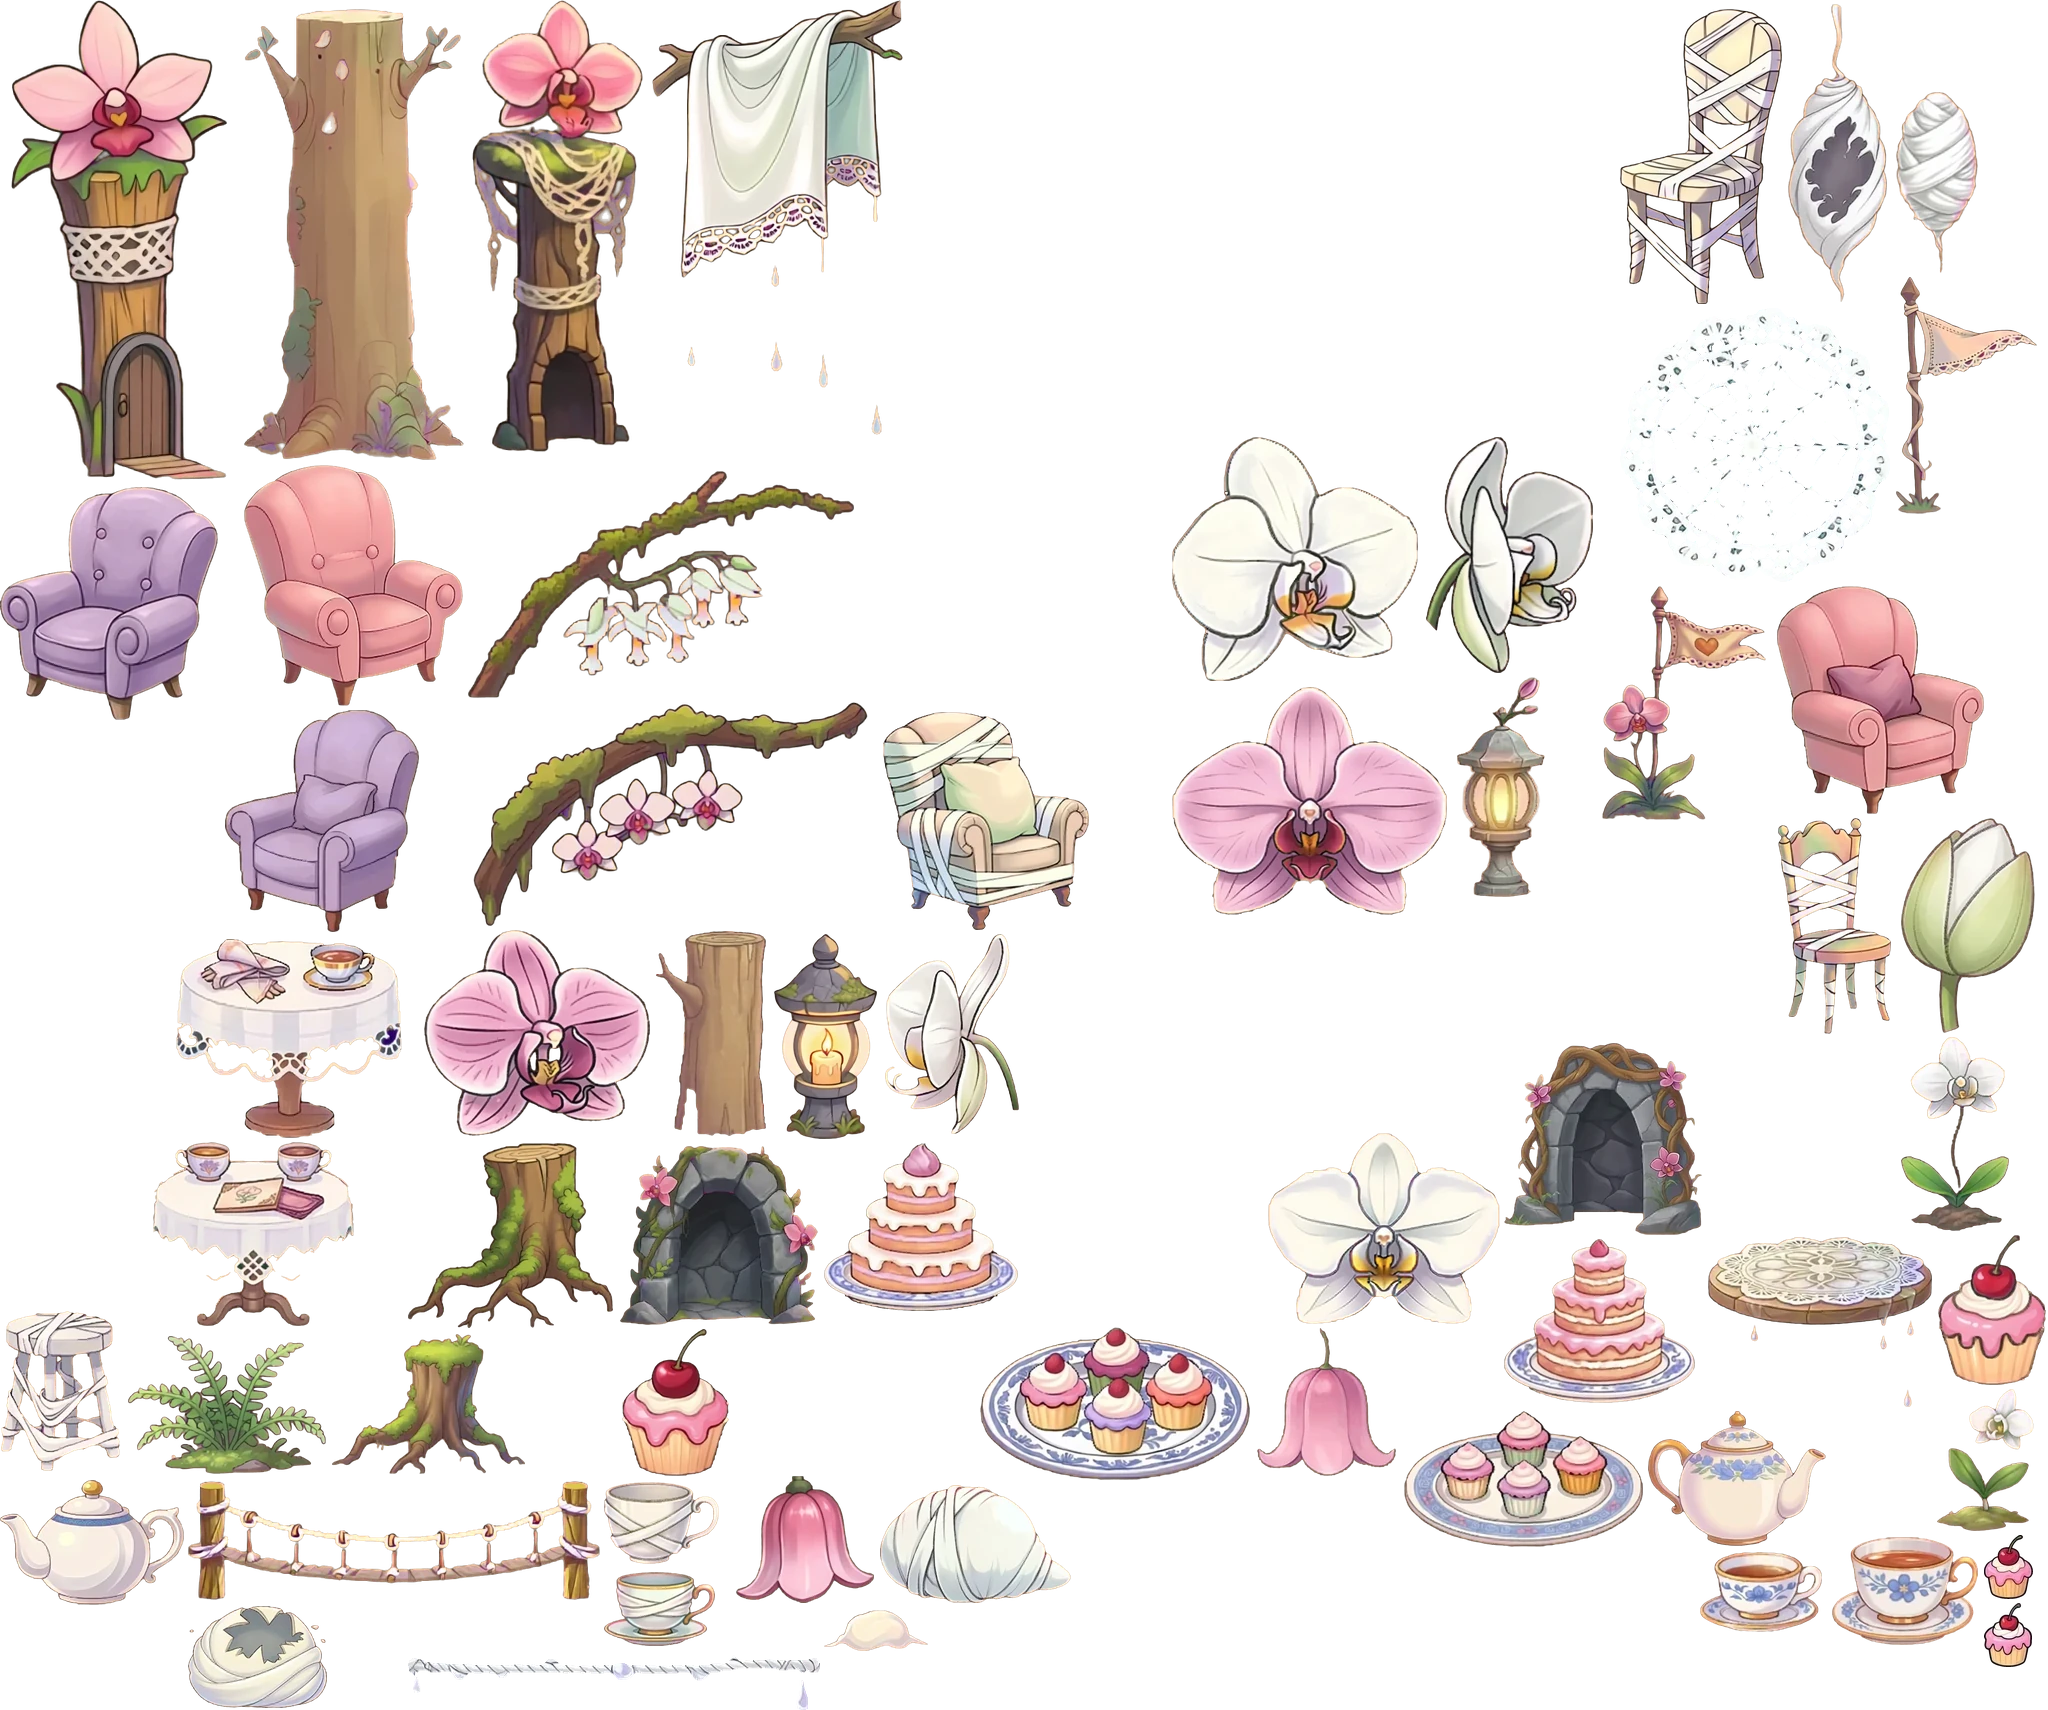
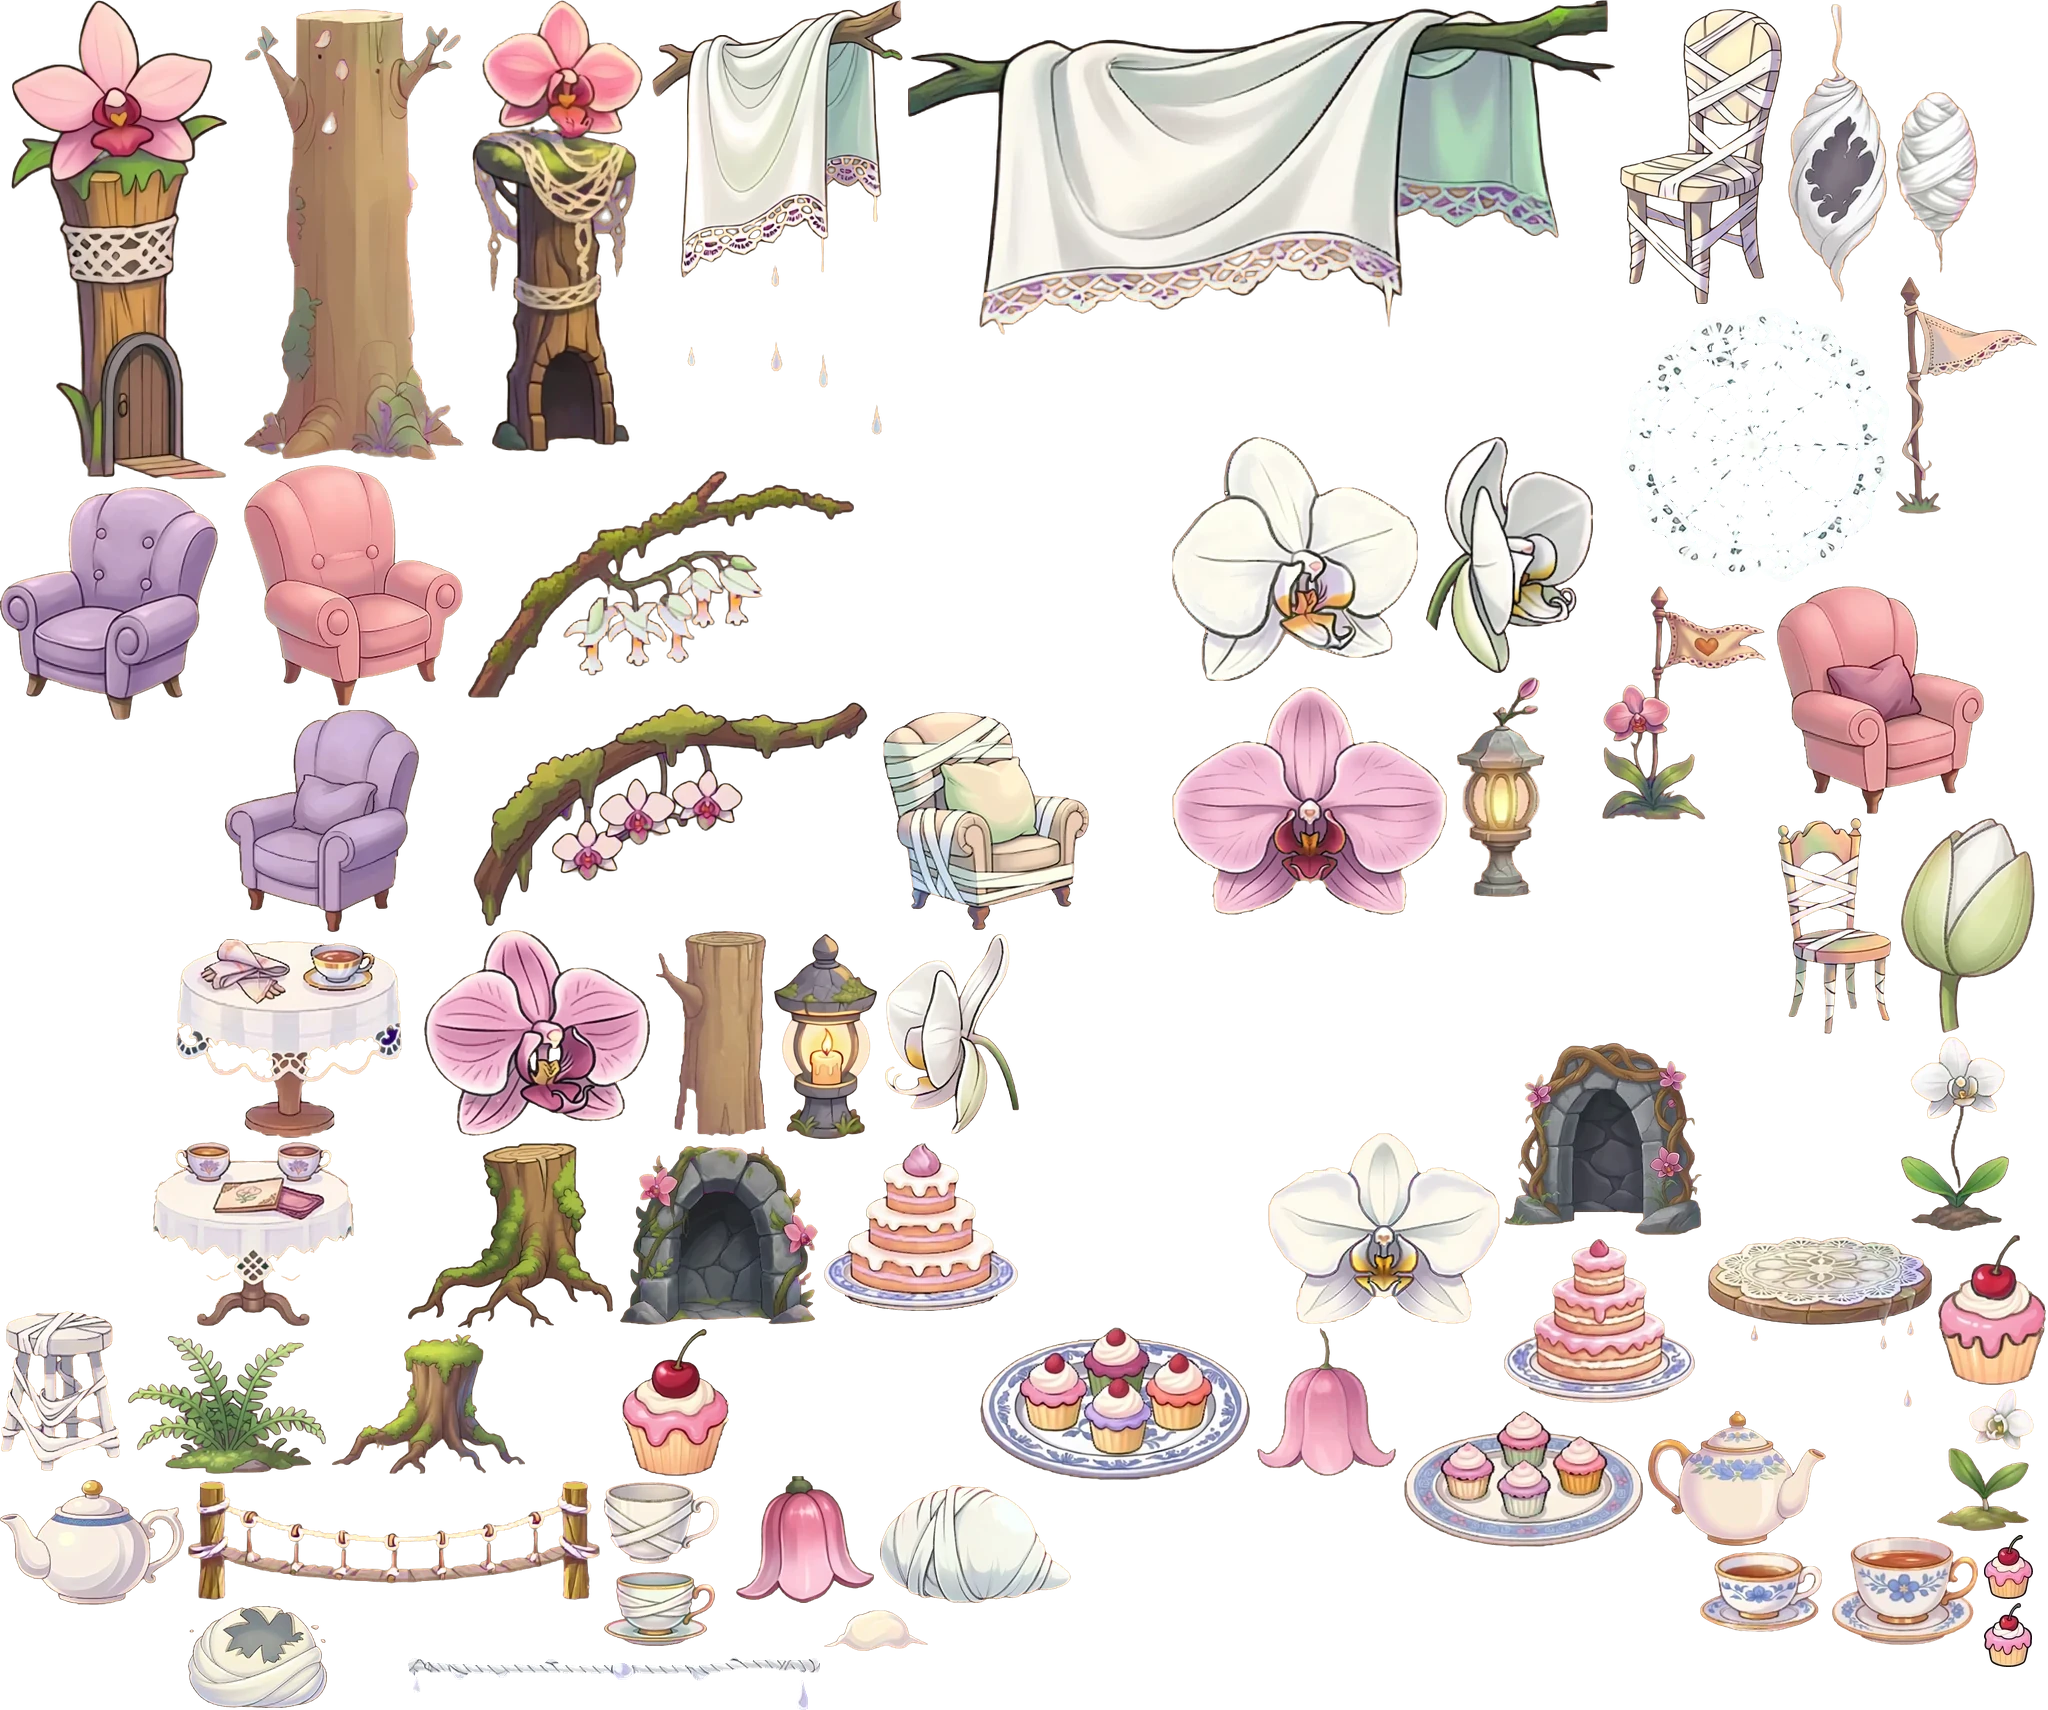
World 5 one style, HF pass: the silk sheets one painted drape (HF), soil mounds lifted a touch, pit shading only in the air (no see-through boxes or banded walls), stills
Claude-Session: https://claude.ai/code/session_01FhBbYK2Fd5H9bqRihq9enn

Changed region(s): [[0.4375, 0.0, 0.7812, 0.186]]

diff --git a/src/game/protoArt.ts b/src/game/protoArt.ts
@@ -670,10 +670,9 @@ function trunkVine(): HTMLCanvasElement | null {
 }
 
 /**
- * A pit's inside in shadow: cool, from nothing at the banks' lips to darkest on its floor, darker toward its walls, and spilling 40 units
- * under each bank's face, where the end's undercut shows it as a soft contact shadow under the lip. Each stretch of the pit's surface
- * (its floor, a step standing on it) is shaded down to its own top and fades out just under it: the soil under the surface is the
- * banks' own soil, one piece with theirs.
+ * A pit's inside in shadow: cool, from nothing at the banks' lips to darkest just over its floor, and spilling 40 units under each bank's
+ * face, where the end's undercut shows it as a soft contact shadow under the lip. Each stretch of the pit's surface (its floor, a step
+ * standing on it) is shaded down to its own top; the surface itself is left as painted.
  */
 function pitShade(ctx: CanvasRenderingContext2D, o: { x0: number; x1: number; top: number; pieces: Platform[] }) {
   const SH = '12,18,32';
@@ -694,34 +693,19 @@ function pitShade(ctx: CanvasRenderingContext2D, o: { x0: number; x1: number; to
     segs[segs.length - 1][1] = x1;
   }
   ctx.save();
+  // (only the air inside the pit is shaded, from nothing at the lips to darkest just over each stretch of its surface: shading down over
+  // the floor and its step too showed them as see-through boxes, and the walls' banded shadow as ruled lines, w5-rebuild 2026-10-29)
   for (const [a, b, fy] of segs) {
-    const y1 = fy + 50;
-    const g = ctx.createLinearGradient(0, o.top, 0, y1);
+    if (fy - o.top < 4) continue;
+    const g = ctx.createLinearGradient(0, o.top, 0, fy);
     g.addColorStop(0, `rgba(${SH},0)`);
-    g.addColorStop((fy - o.top) / (y1 - o.top), `rgba(${SH},0.56)`);
-    g.addColorStop(1, `rgba(${SH},0)`);
+    g.addColorStop(1, `rgba(${SH},0.5)`);
     ctx.fillStyle = g;
     // (feathered over its outer 40 units each side, under the banks' faces: a hard edge showed where a face curves in)
     for (let u = a; u < b; u += 5) {
       const d = Math.min(u - x0, x1 - (u + 5));
       ctx.globalAlpha = Math.max(0, Math.min(1, (d + 2.5) / 40));
-      ctx.fillRect(u, o.top, Math.min(5, b - u), y1 - o.top);
-    }
-  }
-  ctx.globalAlpha = 1;
-  // the walls' shadow, fading out toward the surface in three bands
-  const fl = Math.min(...segs.map((q) => q[2]));
-  const bands: Array<[number, number, number]> = [[o.top + 20, fl - 60, 1], [fl - 60, fl - 30, 0.6], [fl - 30, fl, 0.3]];
-  for (const [a, b] of [[x0, o.x0 + 70], [x1, o.x1 - 70]] as const) {
-    const h = ctx.createLinearGradient(a, 0, b, 0);
-    h.addColorStop(0, `rgba(${SH},0)`);
-    h.addColorStop(40 / 110, `rgba(${SH},0.4)`);
-    h.addColorStop(1, `rgba(${SH},0)`);
-    ctx.fillStyle = h;
-    for (const [ya, yb, al] of bands) {
-      if (yb <= ya) continue;
-      ctx.globalAlpha = al;
-      ctx.fillRect(Math.min(a, b), ya, Math.abs(b - a), yb - ya);
+      ctx.fillRect(u, o.top, Math.min(5, b - u), fy - o.top);
     }
   }
   ctx.restore();
@@ -799,7 +783,13 @@ export function drawProtoScene(
     const ul = !p.soil && !p.mound && under('l') ? 60 : 0;
     const ur = !p.soil && !p.mound && under('r') ? 60 : 0;
     const box = ul || ur ? { ...p, x: p.x - ul, width: p.width + ul + ur } : p;
+    // (World 5's raised beds a touch lighter and warmer than the bank they stand on, so they don't read dull beside the garden: the lead)
+    if (p.mound) {
+      ctx.save();
+      ctx.filter = 'brightness(1.16) saturate(1.12)';
+    }
     drawBankArt(ctx, box, { left: !touches('l') && !isWall, right: !touches('r'), leftStep: lower('l'), rightStep: lower('r'), bare: !!p.soil }, false, view.y1 ?? 0, view);
+    if (p.mound) ctx.restore();
   }
   shadeUpTo(-Infinity);
   // the climb trunks: the painted kapok trunk with its vine, stacked from the ground up to the branch it reaches

diff --git a/src/game/w5Look.ts b/src/game/w5Look.ts
@@ -797,21 +797,15 @@ export function drawSilkSheet(ctx: CanvasRenderingContext2D, x0: number, x1: num
   if (drawW5Art(ctx, 'silkSheet', (x0 + x1) / 2, bottom, x1 - x0, { alpha: 0.9 })) return;
   const w = x1 - x0;
   if (w5ArtReady()) {
-    // the painted sheets hung side by side across it (each kept near its own shape), and slow light moving over them; brighter as he lingers
+    // one painted silk cloth draped along a bough across the whole sheet (its hem soft and torn, never a straight edge), turned by where
+    // it hangs; the light on it breathes, brighter as he lingers (drawn as the cloth itself again, added: no box of light)
     const hh = bottom - top;
-    const n = Math.max(1, Math.round(w / w5Width('silkSheet', hh)));
-    const sw = w / n;
-    for (let i = 0; i < n; i++) drawW5Box(ctx, 'silkSheet', x0 + i * sw - 4, top, sw + 8, hh, (i + takeAt(x0, 2)) % 2 === 1);
+    const flip = takeAt(x0, 2) === 1;
+    drawW5Box(ctx, 'silkDrape', x0 - 10, top, w + 20, hh, flip);
     ctx.save();
     ctx.globalCompositeOperation = 'lighter';
-    const s = (t * 0.25) % 1;
-    const lx = x0 - 60 + (w + 120) * s;
-    const g = ctx.createLinearGradient(lx - 50, 0, lx + 50, 0);
-    g.addColorStop(0, 'rgba(255, 236, 200, 0)');
-    g.addColorStop(0.5, `rgba(255, 236, 200, ${0.16 + 0.14 * near})`);
-    g.addColorStop(1, 'rgba(255, 236, 200, 0)');
-    ctx.fillStyle = g;
-    ctx.fillRect(Math.max(x0, lx - 50), top + hh * 0.08, Math.min(x1, lx + 50) - Math.max(x0, lx - 50), hh * 0.8);
+    ctx.globalAlpha = (0.06 + 0.1 * near) * (0.6 + 0.4 * Math.sin(t * 1.3 + x0 * 0.01));
+    drawW5Box(ctx, 'silkDrape', x0 - 10, top, w + 20, hh, flip);
     ctx.restore();
     return;
   }

diff --git a/src/game/w5PropsData.ts b/src/game/w5PropsData.ts
@@ -11,7 +11,7 @@
 //   orchids        orchidOpen, orchidHalf, orchidClosed (the closing-orchid platform's three states), orchidOpen2, orchidHalf2,
 //                  orchidBack, orchidPink (+2), orchidIcon (64 px); orchidRow (+2): a mossy branch with a hanging row of blooms
 //   bell           bell, bell2: the pink bell flower ("in plain sight, look for a pink bell")
-//   silk           silkThread (a dewy thread), silkSpan (a thread strung between two forks, strands hanging), silkBridge, silkSheet
+//   silk           silkThread (a dewy thread), silkBridge, silkSheet, silkDrape (a wide silk cloth draped along a bough: a silk sheet)
 //   doilies        doily (flat, round), doilyStool (on a wooden disc), doilyLong (a long lace ledge)
 //   visitors       wrappedArmchair (+2), wrappedChair (+2), wrappedStool, wrappedCup (+2), silkLump
 //   cocoons        cocoonHanging, cocoonHangingTorn, cocoonWrapped (lying), cocoonTorn (lying, burst open)
@@ -65,6 +65,7 @@ export const W5_FRAMES = {
   orchidSprout2: { x: 1936, y: 1389, w: 99, h: 142 },
   silkBridge: { x: 188, y: 1478, w: 412, h: 122 },
   silkLump: { x: 824, y: 1607, w: 104, h: 44 },
+  silkDrape: { x: 908, y: 0, w: 707, h: 335 },
   silkSheet: { x: 652, y: 0, w: 252, h: 435 },
   silkThread: { x: 408, y: 1650, w: 412, h: 60 },
   teaTable: { x: 152, y: 1142, w: 204, h: 184 },

diff --git a/tools/art/w5rebuild/pack.py b/tools/art/w5rebuild/pack.py
@@ -1,7 +1,7 @@
 """Put the w5-rebuild repaints into src/assets/props/w5-props.webp in place (as hfground/packw5props.py: each pick keyed off the magenta,
 its dark key spill browned on the edge only, fitted inside the piece's own frame bottom-centred, the old piece cleared first), clear the
 12 frames the game never draws, and write the before/after sheet to reference/prop-sheets/qa-notes/w5-rebuild/w5-props-after.jpg.
-    python3 tools/art/w5rebuild/pack.py <raw dir>      (run it on a fresh `git checkout src/assets/props/w5-props.webp`)
+    python3 tools/art/w5rebuild/pack.py <raw dir>      (run it on hf-art-ground's sheet: `git checkout 4e2ba1fa -- src/assets/props/w5-props.webp`)
 """
 import re, sys
 from pathlib import Path
@@ -22,7 +22,9 @@ PICK = {'fern': 's65-19', 'cocoonHangingTorn': 's65-19', 'cocoonTorn': 's65-19',
         'wrappedArmchair2': 's65-19', 'doily': 'start', 'silkThread': 'start'}
 # (stray specks the key leaves round a piece, by area: the fern's take has a few pink dots beside it)
 SPECK = {'fern': 900}
-F = {m.group(1): tuple(map(int, m.groups()[1:])) for m in re.finditer(r'(\w+): \{ x: (\d+), y: (\d+), w: (\d+), h: (\d+) \}', (ROOT / 'src/game/w5PropsData.ts').read_text())}
+# (the frames as hf-art-ground left them, the 12 unused still listed: the sheet before this pass is 4e2ba1fa's)
+import subprocess
+F = {m.group(1): tuple(map(int, m.groups()[1:])) for m in re.finditer(r'(\w+): \{ x: (\d+), y: (\d+), w: (\d+), h: (\d+) \}', subprocess.run(['git', 'show', '4e2ba1fa:src/game/w5PropsData.ts'], cwd=ROOT, capture_output=True, text=True, check=True).stdout)}
 path = ROOT / 'src/assets/props/w5-props.webp'
 sheet = Image.open(path).convert('RGBA')
 before = sheet.copy()
@@ -43,6 +45,15 @@ for n in REPAINT:
     k = min(w / im.width, h / im.height)
     im = im.resize((max(1, round(im.width * k)), max(1, round(im.height * k))), Image.LANCZOS)
     sheet.alpha_composite(im, (x + (w - im.width) // 2, y + h - im.height))
+# new pieces, each in a frame the 12 unused ones left (written into w5PropsData.ts by hand: silkDrape at silkSpan's old place)
+NEW = {'silkDrape': ((908, 0, 707, 433), 's62-31')}
+for n, ((x, y, w, h), t) in NEW.items():
+    im = depurple(key(Image.open(raw / f'w5r-{n}-{t}.webp'), speck=400), lum_max=256, edge_only=3)
+    im = im.crop(im.getbbox())
+    k = min(w / im.width, h / im.height)
+    im = im.resize((max(1, round(im.width * k)), max(1, round(im.height * k))), Image.LANCZOS)
+    sheet.alpha_composite(im, (x, y))
+    print(n, {'x': x, 'y': y, 'w': im.width, 'h': im.height})
 sheet.save(path, 'WEBP', quality=90, method=6)
 print(path, path.stat().st_size)
 T = 130
